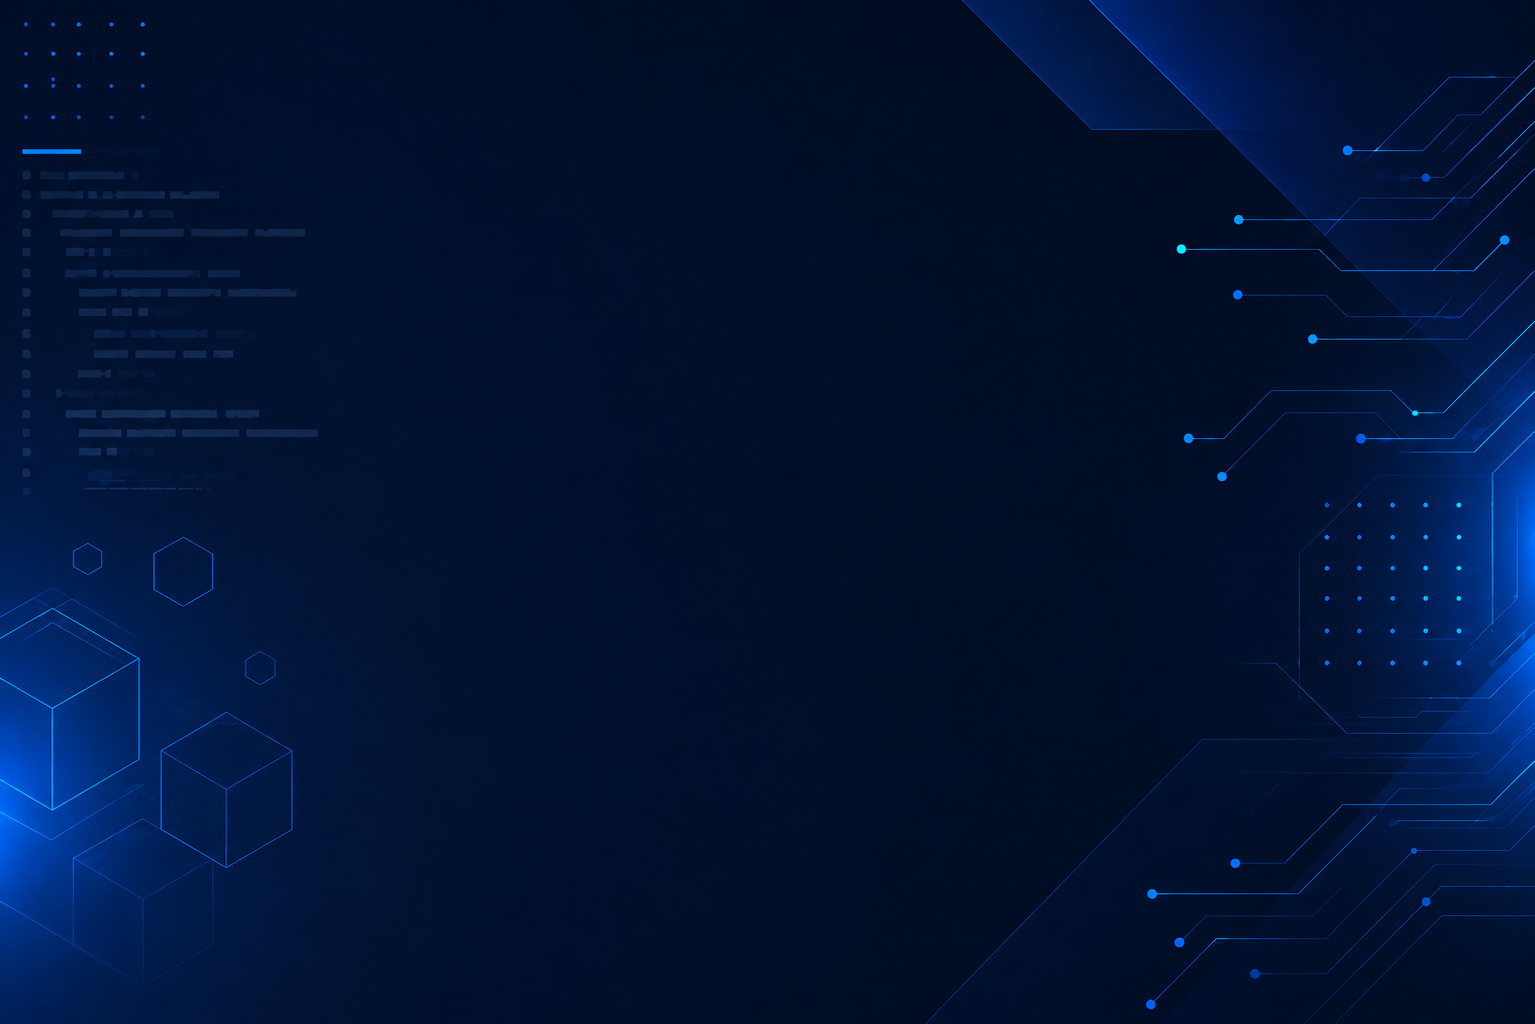
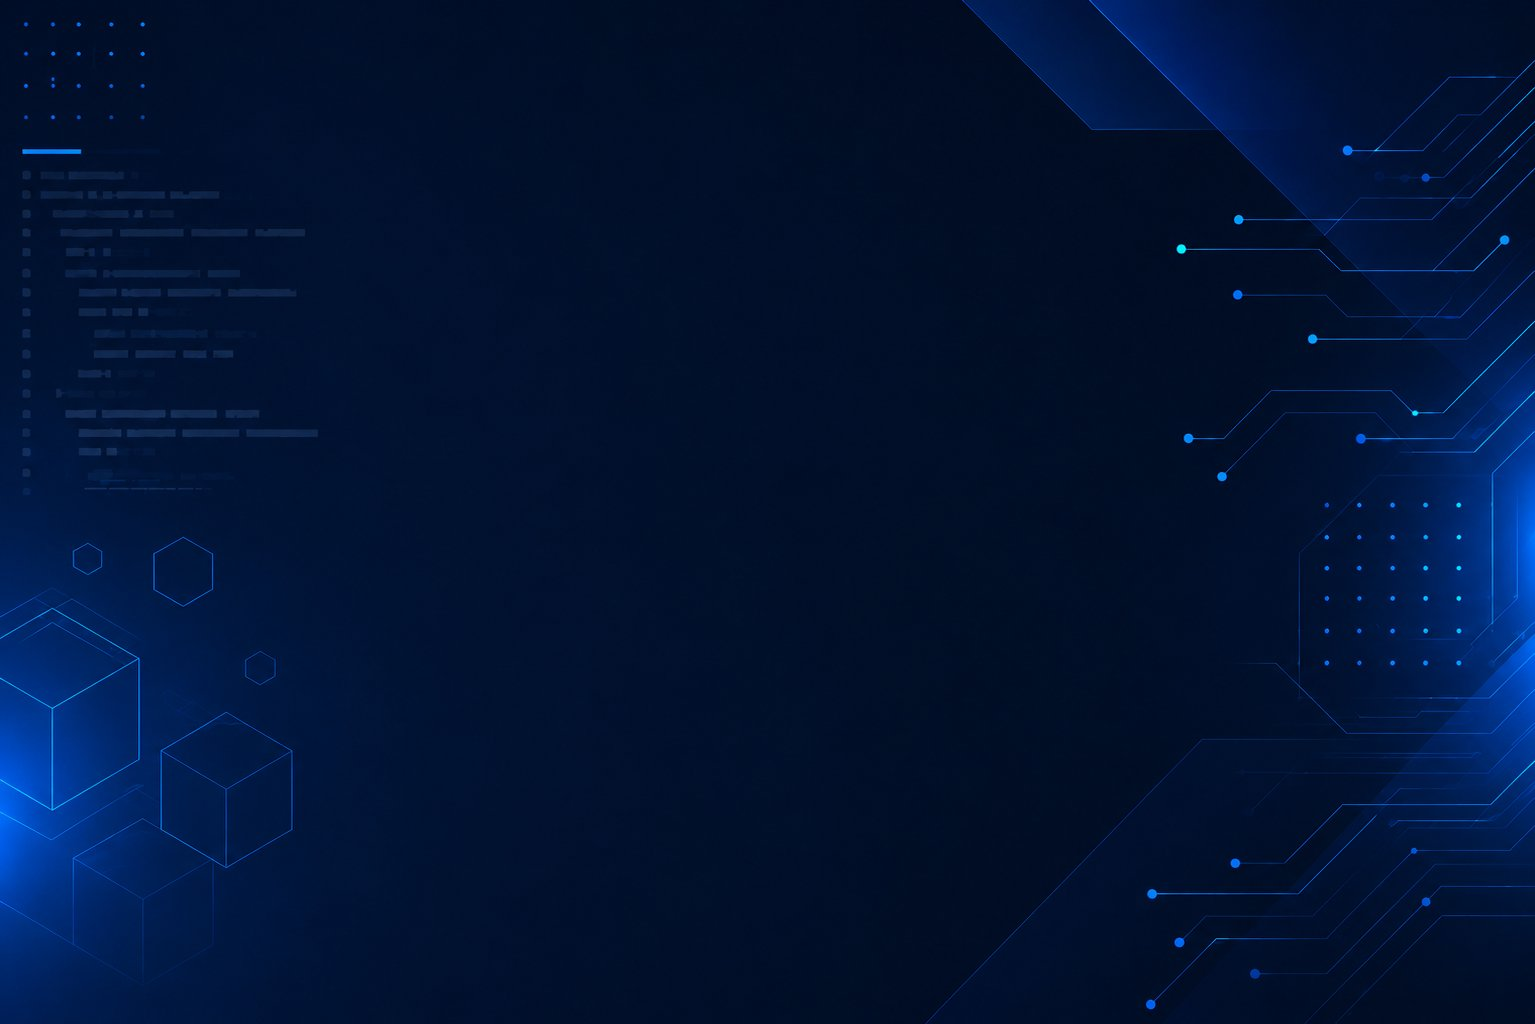
T
T

diff --git a/assets/css/main.css b/assets/css/main.css
@@ -505,6 +505,10 @@ section,
   overflow: clip;
 }
 
+.hero.section {
+  overflow: hidden;
+}
+
 /*--------------------------------------------------------------
 # Global Section Titles
 --------------------------------------------------------------*/
@@ -563,17 +567,21 @@ section,
   display: flex;
   align-items: center;
   justify-content: center;
+  overflow: hidden;
+  background-color: var(--primary-color);
+  background-image: url("../img/hero-bg.jpg");
+  background-size: cover;
+  background-position: center center;
+  background-repeat: no-repeat;
 }
 
-.hero picture,
-.hero img {
-  position: absolute;
-  inset: 0;
-  display: block;
-  width: 100%;
-  height: 100%;
-  object-fit: cover;
-  z-index: 1;
+@supports (background-image: image-set(url("x.webp") type("image/webp"))) {
+  .hero {
+    background-image: image-set(
+      url("../img/hero-bg.webp") type("image/webp"),
+      url("../img/hero-bg.jpg") type("image/jpeg")
+    );
+  }
 }
 
 .hero:before {
@@ -1869,9 +1877,8 @@ section,
     padding-right: 16px;
   }
 
-  .hero picture,
-  .hero img {
-    object-position: center 18%;
+  .hero {
+    background-position: center 18%;
   }
 
   .hero .social-links {
@@ -1966,9 +1973,8 @@ section,
     font-size: clamp(1.05rem, 4.2vw, 1.25rem);
   }
 
-  .hero picture,
-  .hero img {
-    object-position: center 12%;
+  .hero {
+    background-position: center 12%;
   }
 
   .hero .cv-links {

diff --git a/index.html b/index.html
@@ -63,11 +63,6 @@
     <!-- Hero Section -->
     <section id="hero" class="hero section">
 
-      <picture>
-        <source srcset="assets/img/hero-bg.webp" type="image/webp">
-        <img src="assets/img/hero-bg.jpg" alt="" aria-hidden="true">
-      </picture>
-
       <div class="container" data-aos="zoom-out">
         <div class="row justify-content-center">
           <div class="col-lg-9 text-center">